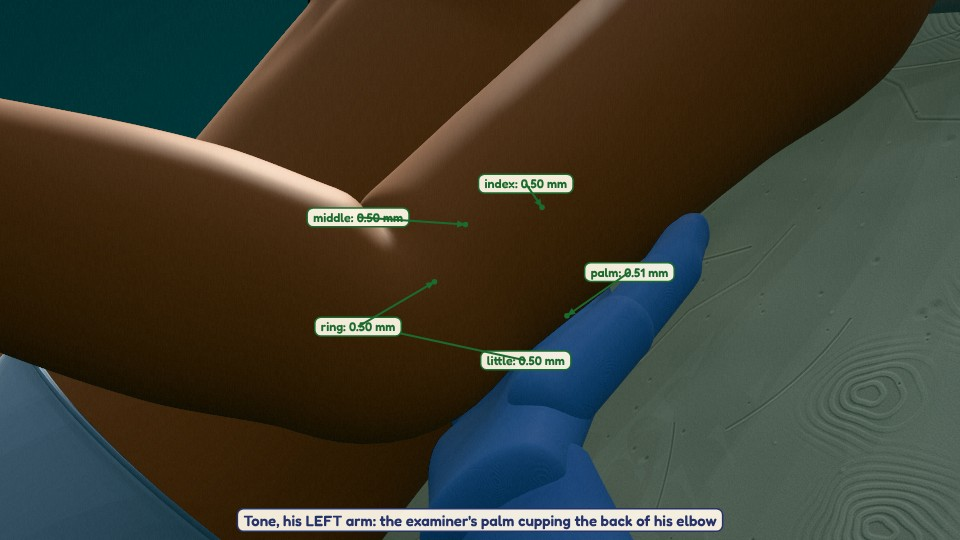
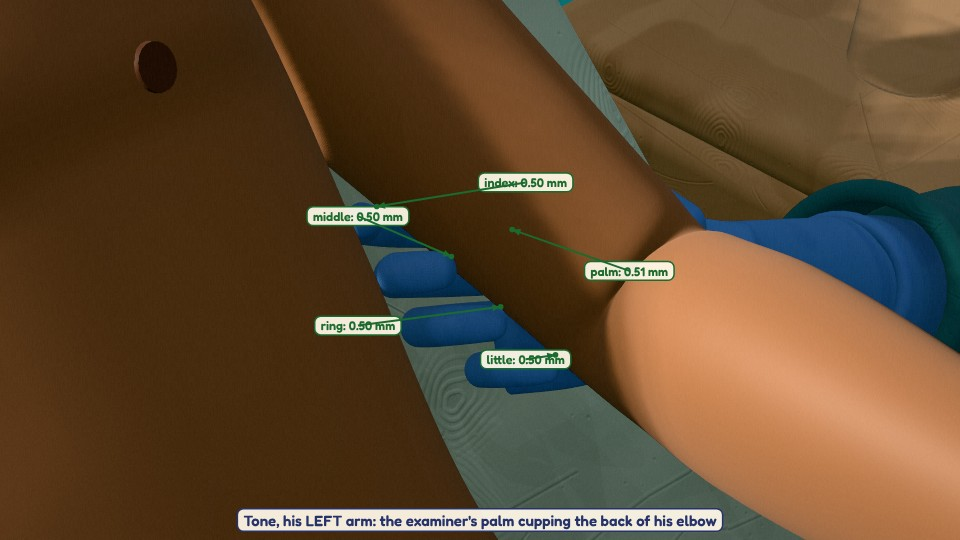
Panels show pad gaps; notes for pads, cup and grip; panels re-rendered so far
Claude-Session: https://claude.ai/code/session_011Gm4kjMqmDnuuSEBWMMHQv

diff --git a/tools/review-page.js b/tools/review-page.js
@@ -36,10 +36,13 @@
     res.forEach((r, i) => {
       const ang = n === 1 ? (o.ang == null ? -2.2 : o.ang) : a0 + span * (i + 0.5) / n;
       const lx = cx + Math.cos(ang) * R * (o.sx || 1), ly = cy + Math.sin(ang) * R * 0.62;
-      const mm = r.g.gap * 100, ok = mm >= 0 && mm <= 1.5;
-      const at = label(ctx, lx, ly, `${o.names ? o.names(r.c) : r.c.finger || short(r.c)}: ${mm.toFixed(2)} mm`, { size: 12.5, ink: ok ? '#1b6b2f' : '#b3261e' });
+      // the nearest point, and the pad (end bone) when the label is for a finger or thumb and its pad sits further off
+      const gp = r.c.pad ? W.measureContact(Object.assign({}, r.c, { part: r.c.pad })) : null, pmm = gp ? gp.gap * 100 : null;
+      const mm = r.g.gap * 100, ok = mm >= 0 && mm <= 1.5 && (pmm == null || (pmm >= 0 && pmm <= 1.5));
+      const padTxt = pmm != null && Math.abs(pmm - mm) >= 0.05 ? `, pad ${pmm.toFixed(2)}` : '';
+      const at = label(ctx, lx, ly, `${o.names ? o.names(r.c) : r.c.finger || short(r.c)}: ${mm.toFixed(2)} mm${padTxt}`, { size: 12.5, ink: ok ? '#1b6b2f' : '#b3261e' });
       arrow(ctx, at[0], at[1], r.p[0], r.p[1], ok ? '#1b6b2f' : '#b3261e');
-      MEASURED.push({ id: r.c.id, t, gapMM: +mm.toFixed(3) });
+      MEASURED.push({ id: r.c.id, t, gapMM: +mm.toFixed(3), padMM: pmm == null ? null : +pmm.toFixed(3) });
     });
   };
   const shot = (at, dir, d, ap = 0.004) => { const v = dir.clone().normalize(); return { pos: at.clone().addScaledVector(v, d).toArray(), target: at.toArray(), fov: 28, focus: at.toArray(), aperture: ap }; };
